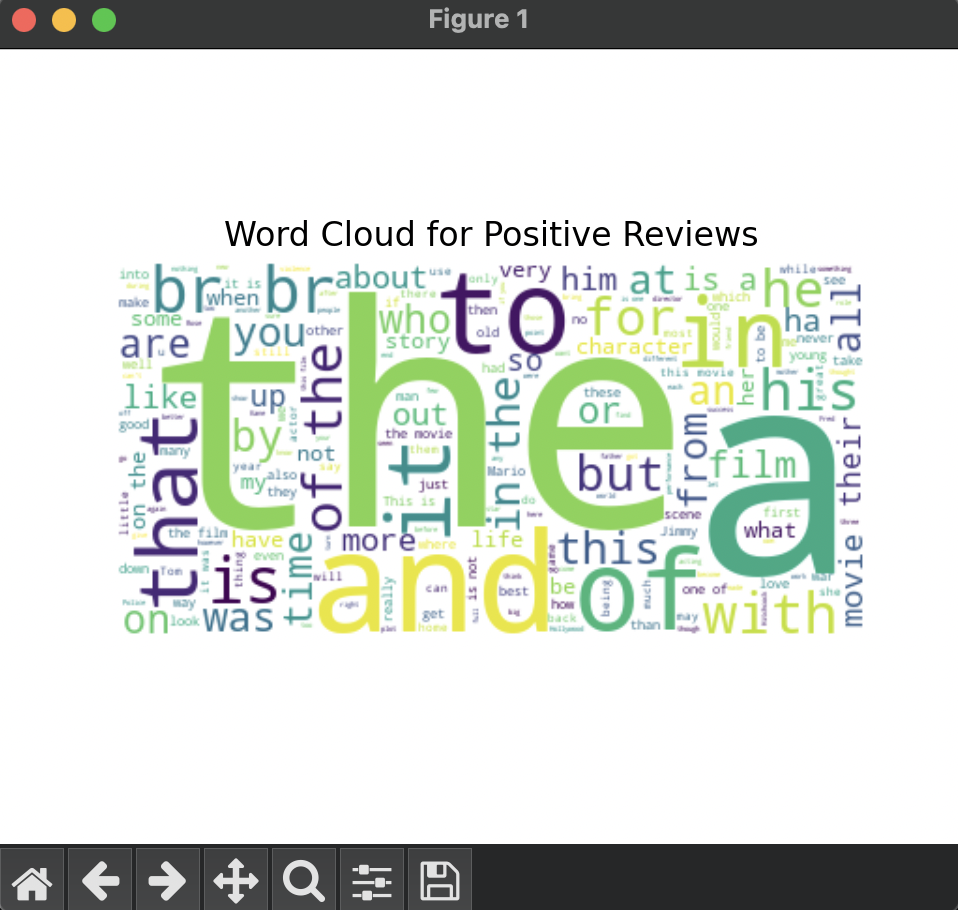
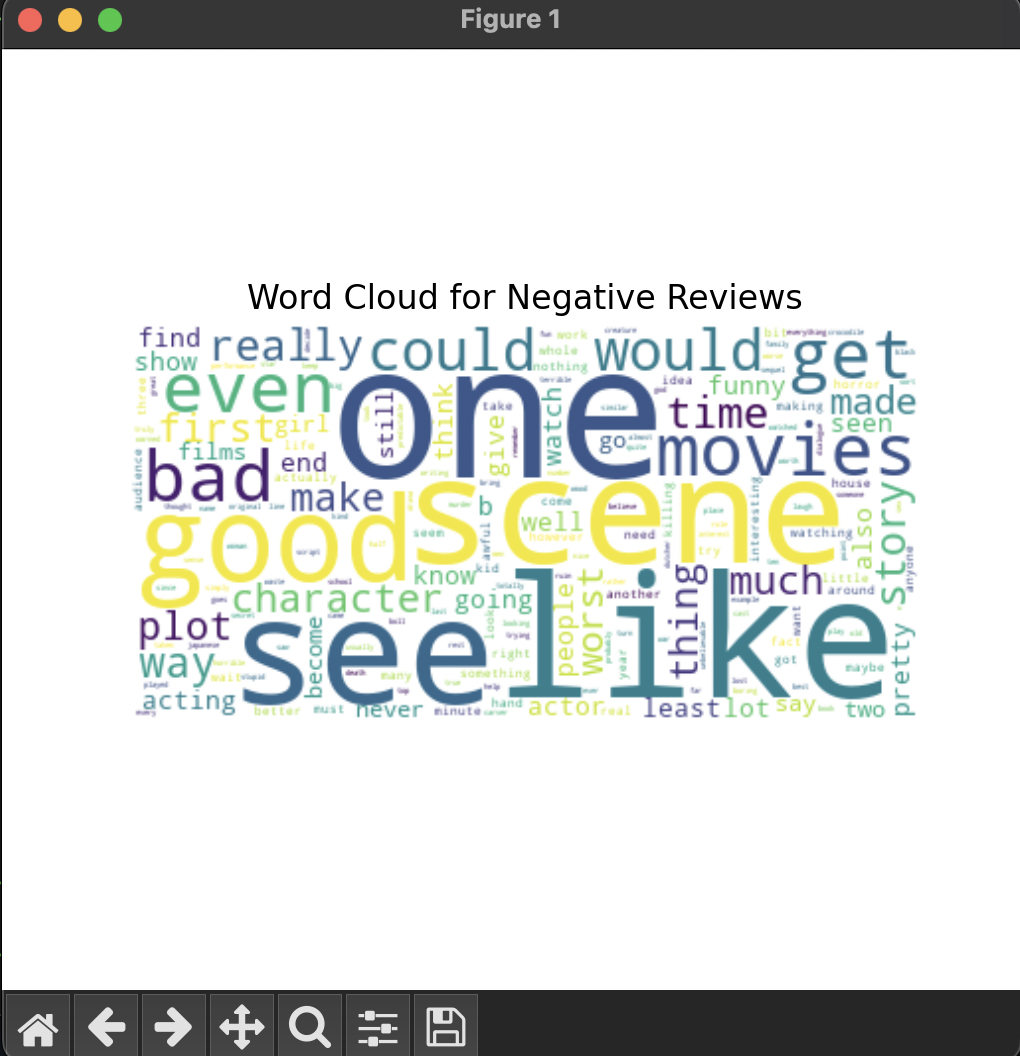
cleaned data, omitting <br> html tags for part2

diff --git a/part2/main.py b/part2/main.py
@@ -1,88 +1,119 @@
-# Import necessary libraries for visualization
+# main.py
+
+# 1) Imports
+import re
 import pandas as pd
 import matplotlib.pyplot as plt
 import seaborn as sns
+
+import nltk
+from nltk.corpus import stopwords
+from wordcloud import WordCloud
+
 from sklearn.model_selection import train_test_split
 from sklearn.feature_extraction.text import CountVectorizer
 from sklearn.naive_bayes import MultinomialNB
 from sklearn.metrics import accuracy_score, classification_report, confusion_matrix
-from wordcloud import WordCloud
 
-# Load Data
-data = pd.read_csv('./movie-data1.csv')
+# 2) Ensure NLTK stopwords are available
+nltk.download('stopwords', quiet=True)
 
-# Display first few rows to verify the structure
-print(data.head())
+# 3) Load your data and drop any empty/malformed rows
+df = pd.read_csv('./movie-data1.csv', encoding='utf-8')
+df.dropna(subset=['review', 'sentiment'], inplace=True)
+df = df[df['review'].str.strip() != '']
 
-# Preprocessing the Data
-X = data['review']
-y = data['sentiment']
+# 4) Cleaning function
+def clean_text(txt: str) -> str:
+    # strip HTML tags
+    txt = re.sub(r'<[^>]+>', ' ', txt)
+    # remove punctuation and digits
+    txt = re.sub(r'[^a-zA-Z\s]', ' ', txt)
+    # lowercase + collapse repeated whitespace
+    return re.sub(r'\s+', ' ', txt).strip().lower()
 
-# Split the data into training and testing sets (80% train, 20% test)
-X_train, X_test, y_train, y_test = train_test_split(X, y, test_size=0.2, random_state=42)
+# 5) Build stopword list
+nltk_sw  = set(stopwords.words('english'))
+custom_sw = {'br', 'movie', 'film'}
+all_stopwords = list(nltk_sw.union(custom_sw))
 
-# Convert the text data into numerical data using CountVectorizer
-vectorizer = CountVectorizer(stop_words='english')
+# 6) Apply cleaning
+df['clean_review'] = df['review'].apply(clean_text)
+
+# 7) Prepare features/labels
+X = df['clean_review']
+y = df['sentiment'].map(lambda s: s.strip().lower())
+
+# 8) Train/test split
+X_train, X_test, y_train, y_test = train_test_split(
+    X, y, test_size=0.2, random_state=42, stratify=y
+)
+
+# 9) Vectorize
+vectorizer = CountVectorizer(
+    stop_words=all_stopwords,
+    max_features=1000,
+    min_df=5,
+    max_df=0.8
+)
 X_train_vec = vectorizer.fit_transform(X_train)
-X_test_vec = vectorizer.transform(X_test)
+X_test_vec  = vectorizer.transform(X_test)
 
-# Train the Naive Bayes Model
+# 10) Train Naive Bayes
 model = MultinomialNB()
 model.fit(X_train_vec, y_train)
 
-# Evaluate the Model
-# Predict on the test set
+# 11) Evaluate
 y_pred = model.predict(X_test_vec)
+print(f"Accuracy: {accuracy_score(y_test, y_pred):.3f}")
+print("\nClassification Report:\n", classification_report(y_test, y_pred))
 
-# Evaluate the accuracy and print a classification report
-print(f"Accuracy: {accuracy_score(y_test, y_pred)}")
-print("Classification Report:\n", classification_report(y_test, y_pred))
+# 12) Visualizations
 
-# Visualizations
-## 1. Sentiment Distribution
-plt.figure(figsize=(8, 6))
-sns.countplot(x='sentiment', data=data, palette='Set2')
+# 12.1 Sentiment Distribution
+plt.figure(figsize=(8,6))
+sns.countplot(x=y, palette='Set2')
 plt.title("Sentiment Distribution")
+plt.xlabel("Sentiment")
+plt.ylabel("Count")
 plt.show()
 
-## 2. Word Cloud for Positive Reviews
-positive_reviews = data[data['sentiment'] == 'positive']['review']
-positive_text = ' '.join(positive_reviews)
-positive_wordcloud = WordCloud(stopwords='english', background_color='white').generate(positive_text)
+# 12.2 Word Clouds for each class
+for label in ['positive', 'negative']:
+    text = ' '.join(df[df['sentiment'].str.lower() == label]['clean_review'])
+    if not text:
+        continue
+    wc = WordCloud(
+        stopwords=all_stopwords,
+        background_color='white',
+        max_words=200
+    ).generate(text)
+    plt.figure(figsize=(6,6))
+    plt.imshow(wc, interpolation='bilinear')
+    plt.title(f"Word Cloud for {label.title()} Reviews")
+    plt.axis('off')
+    plt.show()
 
-plt.figure(figsize=(8, 8))
-plt.imshow(positive_wordcloud, interpolation='bilinear')
-plt.title("Word Cloud for Positive Reviews")
-plt.axis('off')
-plt.show()
-
-## 3. Word Cloud for Negative Reviews
-negative_reviews = data[data['sentiment'] == 'negative']['review']
-negative_text = ' '.join(negative_reviews)
-negative_wordcloud = WordCloud(stopwords='english', background_color='white').generate(negative_text)
-
-plt.figure(figsize=(8, 8))
-plt.imshow(negative_wordcloud, interpolation='bilinear')
-plt.title("Word Cloud for Negative Reviews")
-plt.axis('off')
-plt.show()
-
-## 4. Confusion Matrix
-cm = confusion_matrix(y_test, y_pred)
-plt.figure(figsize=(8, 6))
-sns.heatmap(cm, annot=True, fmt="d", cmap="Blues", xticklabels=['Negative', 'Positive'], yticklabels=['Negative', 'Positive'])
+# 12.3 Confusion Matrix
+cm = confusion_matrix(y_test, y_pred, labels=['negative','positive'])
+plt.figure(figsize=(6,5))
+sns.heatmap(
+    cm, annot=True, fmt='d', cmap='Blues',
+    xticklabels=['Negative','Positive'],
+    yticklabels=['Negative','Positive']
+)
 plt.title("Confusion Matrix")
 plt.xlabel("Predicted")
 plt.ylabel("True")
 plt.show()
 
-# Make Predictions
-# Function to predict sentiment of new reviews
-def predict_sentiment(review):
-    review_vec = vectorizer.transform([review])
-    sentiment = model.predict(review_vec)
-    return sentiment[0]
+# 13) Prediction helper
+def predict_sentiment(review: str) -> str:
+    clean = clean_text(review)
+    vec   = vectorizer.transform([clean])
+    return model.predict(vec)[0]
 
-# Test with a sample review
-sample_review = "The movie was absolutely fantastic and thrilling!"
-print(f"Sentiment: {predict_sentiment(sample_review)}")
+# 14) Sample run
+if __name__ == '__main__':
+    sample = "The movie was absolutely fantastic and thrilling!"
+    print("Sample review prediction:", predict_sentiment(sample))
